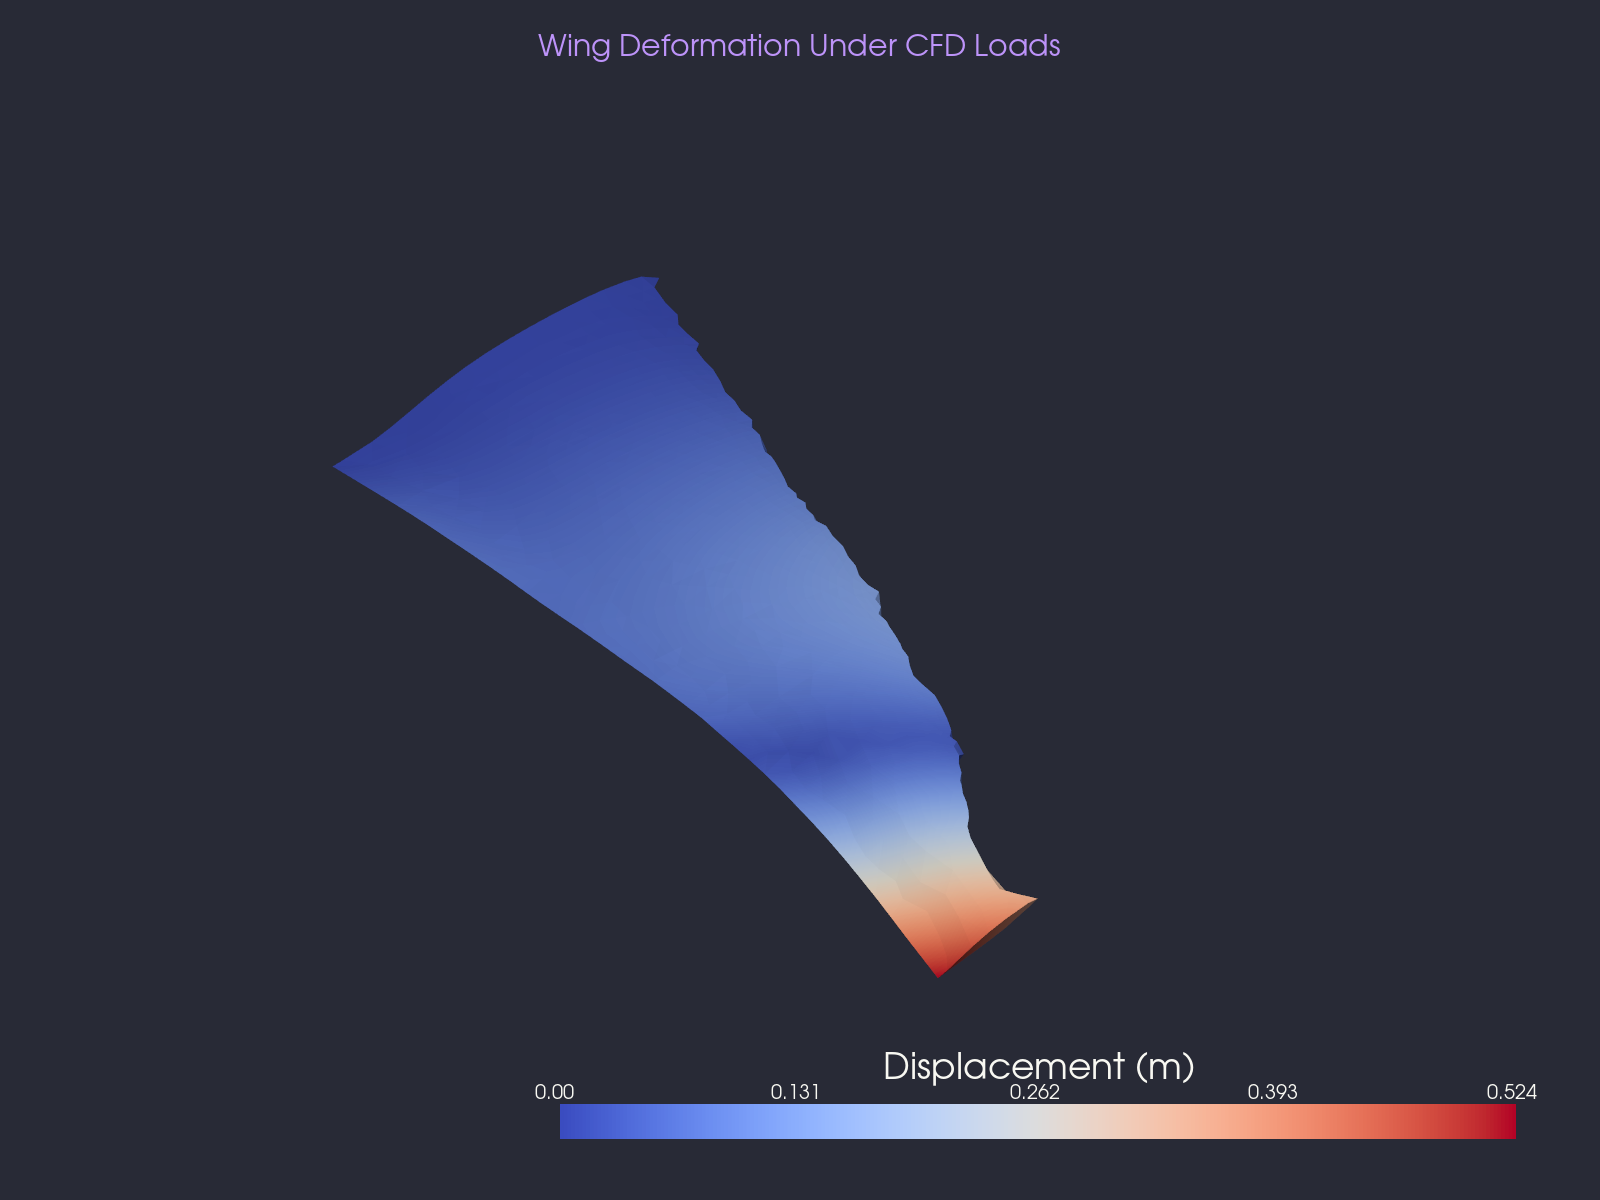
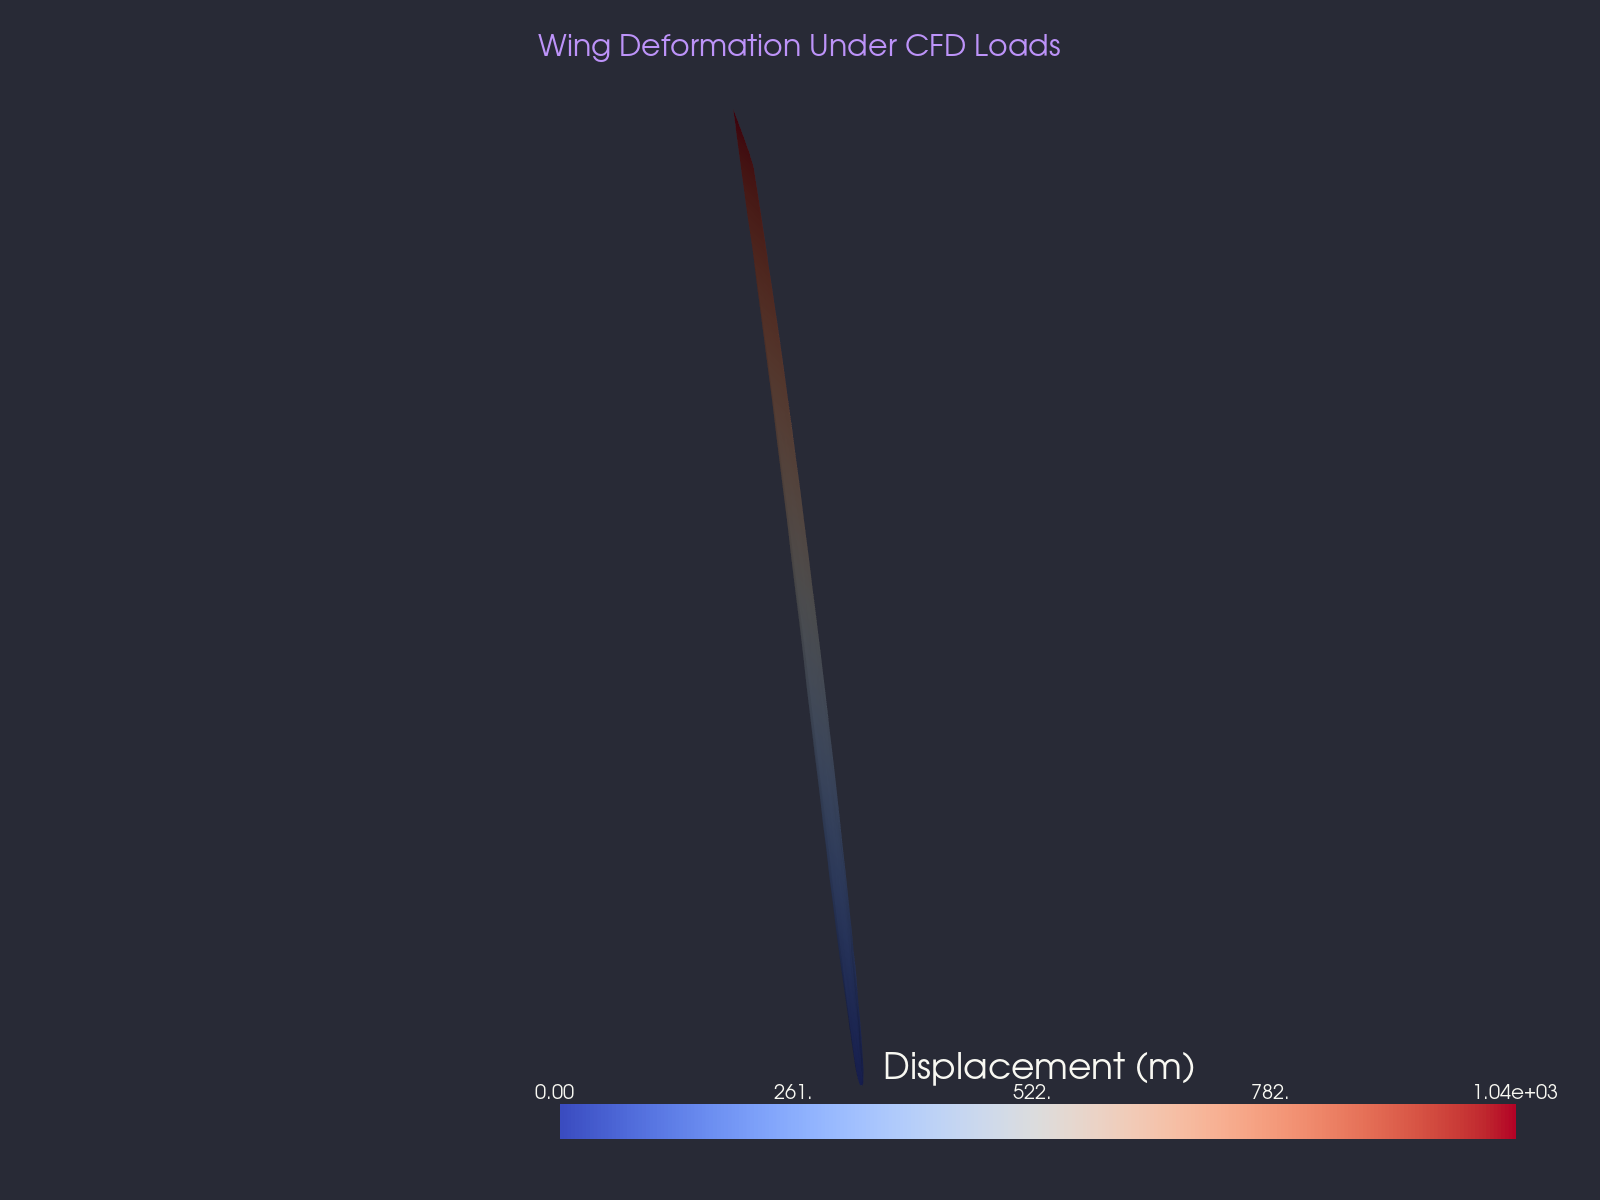
functioning 3d pipeline, but wrong results

diff --git a/physics/mesher3d.py b/physics/mesher3d.py
@@ -1,108 +1,10 @@
 from __future__ import annotations
-
-import math
-import re
-import tempfile
 from pathlib import Path
-
-import numpy as np
-
-from physics.mesher import MeshGenerator
-
-
-def _parse_su2_2d(path: Path) -> tuple:
-    nodes: list[tuple[float, float]] = []
-    elements: list[tuple[int, list[int], int]] = []
-    boundaries: list[tuple[str, list]] = []
-
-    text = path.read_text()
-
-    npoint_match = re.search(r"NPOIN=\s*(\d+)", text)
-    nelem_match = re.search(r"NELEM=\s*(\d+)", text)
-    npoint = int(npoint_match.group(1)) if npoint_match else 0
-    nelem = int(nelem_match.group(1)) if nelem_match else 0
-
-    lines = text.strip().split("\n")
-    i = 0
-    while i < len(lines):
-        line = lines[i].strip()
-        if not line:
-            i += 1
-            continue
-
-        if line.startswith("NPOIN="):
-            i += 1
-            for _ in range(npoint):
-                parts = lines[i].strip().split()
-                nodes.append((float(parts[0]), float(parts[1])))
-                i += 1
-            continue
-
-        if line.startswith("NELEM="):
-            i += 1
-            for _ in range(nelem):
-                parts = lines[i].strip().split()
-                etype = int(parts[0])
-                enodes = [int(p) for p in parts[1:-1]]
-                etag = int(parts[-1])
-                elements.append((etype, enodes, etag))
-                i += 1
-            continue
-
-        if line.startswith("MARKER_TAG="):
-            mname = line.split("=", 1)[1].strip()
-            i += 1
-            subline = lines[i].strip()
-            mcount = int(subline.split("=")[1])
-            i += 1
-            belem: list[tuple[int, list[int]]] = []
-            for _ in range(mcount):
-                parts = lines[i].strip().split()
-                btype = int(parts[0])
-                bnodes = [int(p) for p in parts[1:]]
-                belem.append((btype, bnodes))
-                i += 1
-            boundaries.append((mname, belem))
-            continue
-
-        i += 1
-
-    return np.array(nodes), elements, boundaries
-
-
-def _write_su2_3d(
-    path: Path,
-    nodes_3d: list[tuple[float, float, float]],
-    elems_3d: list[tuple[int, list[int], int]],
-    boundaries_3d: list[tuple[str, list[tuple[int, list[int]]]]],
-):
-    lines: list[str] = []
-    lines.append("NDIME= 3")
-    lines.append(f"NELEM= {len(elems_3d)}")
-    for etype, enodes, etag in elems_3d:
-        lines.append(f"{etype} " + " ".join(str(n) for n in enodes) + f" {etag}")
-    lines.append(f"NPOIN= {len(nodes_3d)}")
-    for x, y, z in nodes_3d:
-        lines.append(f"{x:.15e} {y:.15e} {z:.15e}")
-    lines.append(f"NMARK= {len(boundaries_3d)}")
-    for mname, belems in boundaries_3d:
-        lines.append(f"MARKER_TAG= {mname}")
-        lines.append(f"MARKER_ELEMS= {len(belems)}")
-        for btype, bnodes in belems:
-            lines.append(f"{btype} " + " ".join(str(n) for n in bnodes))
-    path.write_text("\n".join(lines) + "\n")
-
+import gmsh
+import math
 
 class MeshGenerator3D:
-    """Generate 3D mesh by extruding a 2D C-grid in the spanwise direction."""
-
-    # SU2 element types
-    TRI_2D = 5
-    QUAD_2D = 9
-    LINE_2D = 3
-    PRISM_3D = 13
-    HEX_3D = 12
-    TRI_3D = 5
+    """Generate 3D mesh by subtracting imported STEP wing from farfield box."""
 
     def __init__(self, mesh_density: float = 1.0, span_layers: int = 30):
         self.mesh_density = mesh_density
@@ -110,119 +12,71 @@ class MeshGenerator3D:
 
     def generate(
         self,
-        dat_file: str | Path,
+        step_file: str | Path,
         output_su2: str | Path,
-        root_chord: float = 2.5,
-        tip_chord: float = 0.75,
-        half_span: float = 5.5,
-        sweep_angle: float = 25.0,
-        dihedral_angle: float = 3.0,
-        twist_angle: float = -2.0,
         quiet: bool = True,
     ) -> Path:
-        dat_file = Path(dat_file)
+        step_file = Path(step_file)
         output_su2 = Path(output_su2)
         output_su2.parent.mkdir(parents=True, exist_ok=True)
 
-        span = 2.0 * half_span
+        gmsh.initialize()
+        if quiet:
+            gmsh.option.setNumber("General.Terminal", 0)
 
-        print("  [1/3] Generating 2D C-grid mesh with boundary layers...")
-        tmp_dir = Path(tempfile.mkdtemp())
-        mesh_2d_path = tmp_dir / "mesh_2d.su2"
-        mesher = MeshGenerator(mesh_density=self.mesh_density)
-        mesher.generate(str(dat_file), str(mesh_2d_path), quiet=quiet)
+        gmsh.model.add("wing_3d_cut")
 
-        print("  [2/3] Parsing 2D mesh and extruding to 3D...")
-        nodes_2d, elems_2d, boundaries_2d = _parse_su2_2d(mesh_2d_path)
-        n2d = len(nodes_2d)
-        print(f"    2D nodes: {n2d}, elements: {len(elems_2d)}, boundaries: {len(boundaries_2d)}")
+        # 1. Import STEP wing
+        imported = gmsh.model.occ.importShapes(str(step_file))
+        gmsh.model.occ.synchronize()
 
-        sweep_off = span * math.tan(math.radians(sweep_angle))
-        dihedral_off = span * math.tan(math.radians(dihedral_angle))
+        # Isolate the 3D solid volume
+        wing_solid_entity = [e for e in imported if e[0] == 3][0]
+        
+        # 2. Get bounding box
+        xmin, ymin, zmin, xmax, ymax, zmax = gmsh.model.occ.getBoundingBox(*wing_solid_entity)
+        
+        # 3. Create Farfield Box
+        margin = 15.0
+        farfield_box = gmsh.model.occ.addBox(xmin - margin, ymin, zmin - margin,
+                                           (xmax - xmin) + 2*margin,
+                                           (ymax - ymin),
+                                           (zmax - zmin) + 2*margin)
+        
+        # 4. Boolean subtraction
+        fluid_vol_res = gmsh.model.occ.cut([(3, farfield_box)], [wing_solid_entity], removeTool=True)
+        gmsh.model.occ.synchronize()
+        
+        # 5. Define Physical Groups
+        gmsh.model.addPhysicalGroup(3, [fluid_vol_res[0][0][1]], name="fluid")
+        
+        all_surfaces = gmsh.model.getEntities(2)
+        wing_surfaces = []
+        for dim, tag in all_surfaces:
+            adj = gmsh.model.getAdjacencies(dim, tag)
+            if wing_solid_entity[1] in adj[1]:
+                wing_surfaces.append(tag)
+        
+        gmsh.model.addPhysicalGroup(2, wing_surfaces, name="airfoil")
+        
+        # 6. Mesh refinement
+        dist = gmsh.model.mesh.field.add("Distance")
+        gmsh.model.mesh.field.setNumbers(dist, "SurfacesList", wing_surfaces)
 
-        nodes_3d: list[tuple[float, float, float]] = []
-        for layer in range(self.span_layers + 1):
-            z = layer * (span / self.span_layers)
-            s = z / span
-            sw = s * sweep_off
-            dh = s * dihedral_off
-            tw = math.radians(s * twist_angle)
-            ct, st = math.cos(tw), math.sin(tw)
-            for x_2d, y_2d in nodes_2d:
-                xx = x_2d * ct - y_2d * st + sw
-                yy = x_2d * st + y_2d * ct + dh
-                nodes_3d.append((xx, yy, z))
-
-        def nid(layer: int, i: int) -> int:
-            return i + layer * n2d
-
-        elems_3d: list[tuple[int, list[int], int]] = []
-        for etype, enodes, etag in elems_2d:
-            if etype == self.TRI_2D:
-                a, b, c = enodes
-                for L in range(self.span_layers):
-                    elems_3d.append((
-                        self.PRISM_3D,
-                        [nid(L, a), nid(L, b), nid(L, c),
-                         nid(L + 1, a), nid(L + 1, b), nid(L + 1, c)],
-                        etag,
-                    ))
-            elif etype == self.QUAD_2D:
-                a, b, c, d = enodes
-                for L in range(self.span_layers):
-                    elems_3d.append((
-                        self.HEX_3D,
-                        [nid(L, a), nid(L, b), nid(L, c), nid(L, d),
-                         nid(L + 1, a), nid(L + 1, b), nid(L + 1, c), nid(L + 1, d)],
-                        etag,
-                    ))
-
-        wing_marker_name = "wing"
-        farfield_marker_name = "farfield"
-        marker_map = {
-            "airfoil": wing_marker_name,
-            "farfield": farfield_marker_name,
-        }
-
-        side_boundaries: dict[str, list[tuple[int, list[int]]]] = {}
-        for marker_name, belems in boundaries_2d:
-            mapped = marker_map.get(marker_name, marker_name)
-            if mapped not in side_boundaries:
-                side_boundaries[mapped] = []
-            for btype, bnodes in belems:
-                if btype == self.LINE_2D:
-                    a, b = bnodes
-                    for L in range(self.span_layers):
-                        side_boundaries[mapped].append((
-                            self.TRI_3D,
-                            [nid(L, a), nid(L, b), nid(L + 1, a)],
-                        ))
-                        side_boundaries[mapped].append((
-                            self.TRI_3D,
-                            [nid(L, b), nid(L + 1, b), nid(L + 1, a)],
-                        ))
-
-        if farfield_marker_name not in side_boundaries:
-            side_boundaries[farfield_marker_name] = []
-
-        cap_boundaries: list[tuple[int, list[int]]] = []
-        for etype, enodes, etag in elems_2d:
-            if etype == self.TRI_2D:
-                a, b, c = enodes
-                cap_boundaries.append((self.TRI_3D, [nid(0, a), nid(0, b), nid(0, c)]))
-                cap_boundaries.append((self.TRI_3D, [nid(self.span_layers, a), nid(self.span_layers, b), nid(self.span_layers, c)]))
-
-        boundaries_3d: list[tuple[str, list]] = []
-        boundaries_3d.append((wing_marker_name, side_boundaries.get(wing_marker_name, [])))
-
-        farfield_all = side_boundaries.get(farfield_marker_name, []) + cap_boundaries
-        boundaries_3d.append((farfield_marker_name, farfield_all))
-
-        print(f"    3D nodes: {len(nodes_3d)}, elements: {len(elems_3d)}")
-        print(f"    Boundaries: wing={len(boundaries_3d[0][1])} tris, farfield={len(boundaries_3d[1][1])} tris")
-
-        print("  [3/3] Writing 3D SU2 mesh...")
-        _write_su2_3d(output_su2, nodes_3d, elems_3d, boundaries_3d)
-
-        print(f"    Mesh exported: {output_su2}")
+        thresh = gmsh.model.mesh.field.add("Threshold")
+        gmsh.model.mesh.field.setNumber(thresh, "InField", dist)
+        gmsh.model.mesh.field.setNumber(thresh, "SizeMin", 0.02 * self.mesh_density)
+        gmsh.model.mesh.field.setNumber(thresh, "SizeMax", 2.0 * self.mesh_density)
+        gmsh.model.mesh.field.setNumber(thresh, "DistMin", 0.1)
+        gmsh.model.mesh.field.setNumber(thresh, "DistMax", 5.0)
+        gmsh.model.mesh.field.setAsBackgroundMesh(thresh)
+        
+        # 7. Generate mesh
+        gmsh.option.setNumber("Mesh.Algorithm3D", 1) # Delaunay
+        gmsh.model.mesh.generate(3)
+        
+        gmsh.model.mesh.createTopology()
+        gmsh.write(str(output_su2))
+        gmsh.finalize()
+        
         return output_su2

diff --git a/run_3d_pipeline.py b/run_3d_pipeline.py
@@ -43,11 +43,14 @@ def main():
         output_dir.mkdir(parents=True, exist_ok=True)
 
         mesh_path = output_dir / "mesh_3d.su2"
+        # Determine STEP file based on config
+        step_path = Path("output/cad") / (cfg["docs_prefix"] + "_wing.step")
+        
         if not mesh_path.exists():
-            print("  [1/3] Generating 3D volume mesh...")
-            mesher = MeshGenerator3D(mesh_density=1.0, span_layers=30)
+            print("  [1/3] Generating 3D volume mesh (Gmsh OCC)...")
+            mesher = MeshGenerator3D(mesh_density=1.0)
             mesher.generate(
-                dat_file=str(dat_path),
+                step_file=str(step_path),
                 output_su2=str(mesh_path),
             )
         else:
@@ -62,14 +65,8 @@ def main():
             solver.run(config, mesh_path, output_dir, timeout=3600)
 
             if not surf_vtu_path.exists():
-                print("  WARNING: surface_3d_4.vtu not generated. SU2 may not have converged.")
-                fallback = list(output_dir.glob("surface_*.vtu"))
-                if fallback:
-                    surf_vtu_path = fallback[0]
-                    print(f"  Using fallback: {surf_vtu_path}")
-                else:
-                    print("  SKIP: No surface VTU available for FEA.")
-                    continue
+                print("  WARNING: surface_3d_4.vtu not generated. Using volume flow file as fallback.")
+                surf_vtu_path = flow_vtu_path
         else:
             print("  [2/3] SU2 results already exist, skipping...")
 

diff --git a/physics/solver.py b/physics/solver.py
@@ -115,7 +115,7 @@ class SU2Config3D:
     reynolds_number: float = 1_000_000
     reynolds_length: float = 1.0
     iterations: int = 3000
-    cfl_number: float = 0.5
+    cfl_number: float = 0.1  # Reduced from 0.5
     cfl_adapt: bool = True
     turbulence_model: str = "SA"
     muscl_flow: str = "NO"
@@ -146,8 +146,8 @@ class SU2Config3D:
             "",
             "% --- BOUNDARY CONDITIONS ---",
             "MARKER_FAR= ( farfield )",
-            "MARKER_HEATFLUX= ( wing, 0.0 )",
-            "MARKER_MONITORING= ( wing )",
+            "MARKER_HEATFLUX= ( airfoil, 0.0 )",
+            "MARKER_MONITORING= ( airfoil )",
             "",
             "% --- NUMERICAL METHODS ---",
             "NUM_METHOD_GRAD= GREEN_GAUSS",